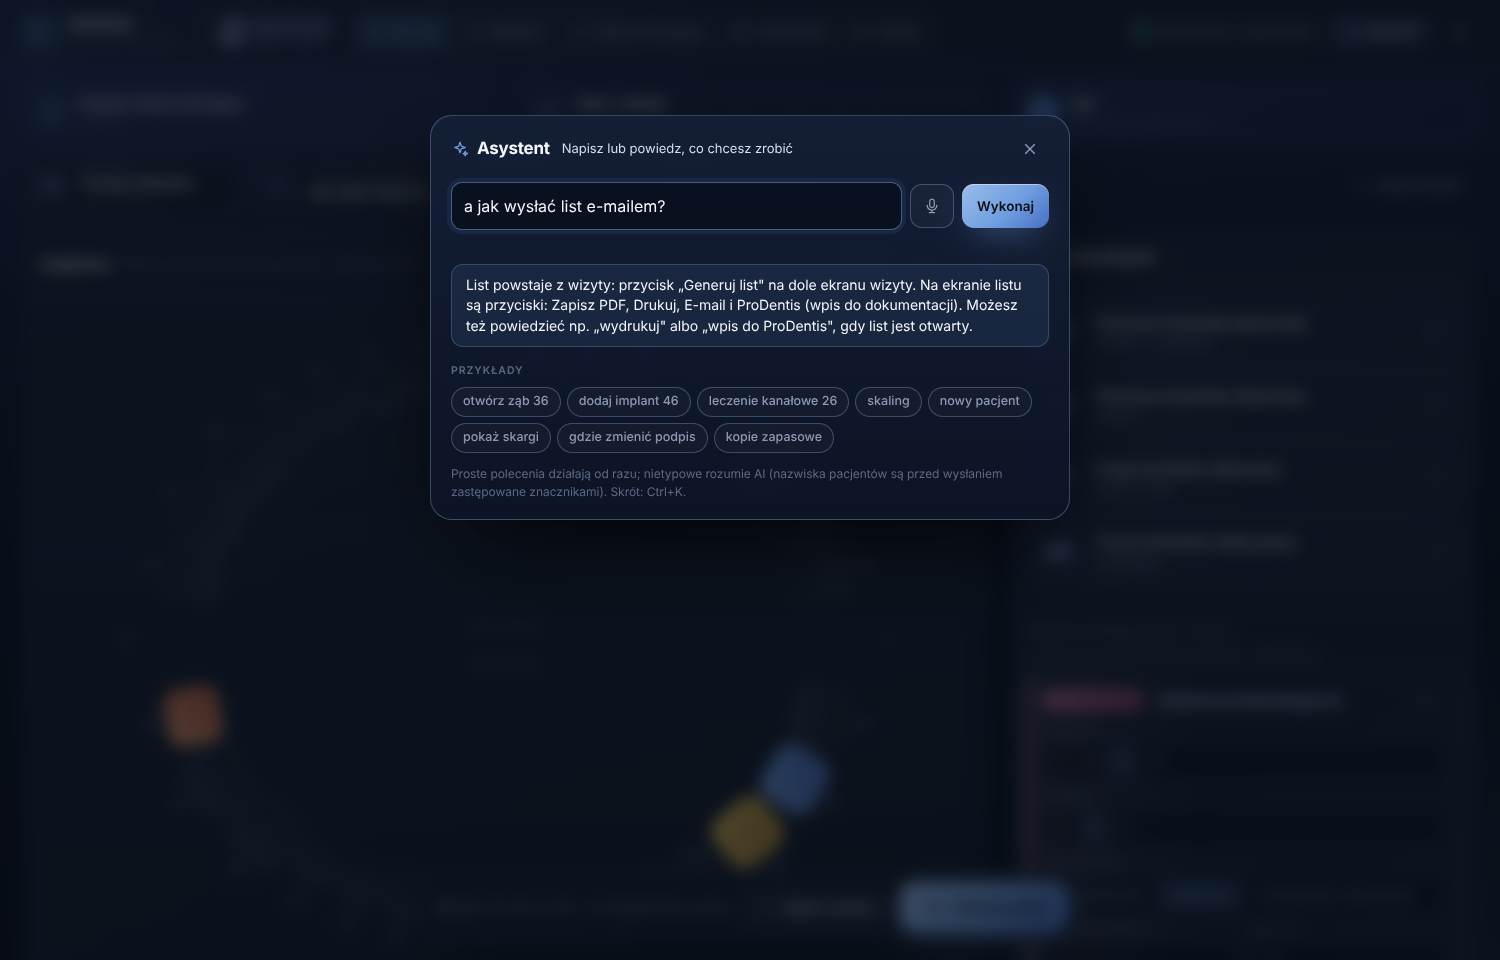
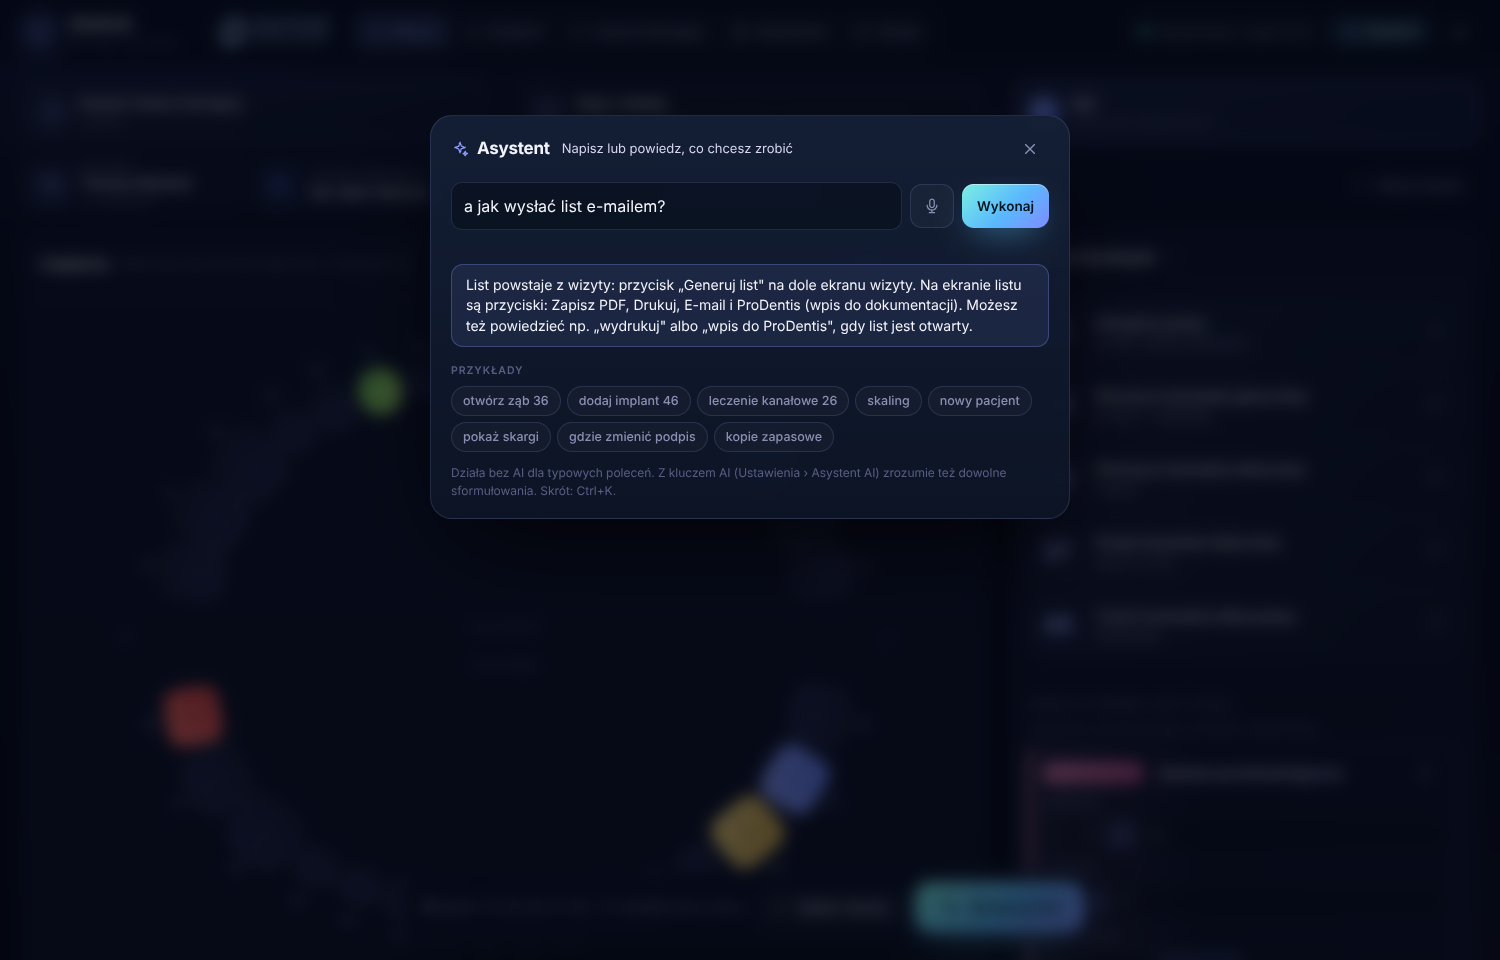
DentList 1.0.8: buccal elements face the viewer on upper teeth; screenshots
Claude-Session: https://claude.ai/code/session_01N2R7jD5mcfB683ZhhSfV7y

diff --git a/dentlist/public/js/tooth3d.js b/dentlist/public/js/tooth3d.js
@@ -177,11 +177,11 @@ export class Tooth3D {
   /** What other specialties did to the tooth: fillings, crowns and veneers, post, gingiva, sealant, pulpotomy. */
   extras(ti, W, D, H, L, ex, crown) {
     const add = (geo, mat, x, y, z, sx = 1, sy = 1, sz = 1, order = 4) => { const m = new THREE.Mesh(geo, mat); m.position.set(x, y, z); m.scale.set(sx, sy, sz); m.renderOrder = order; this.group.add(m); return m; };
-    const blob = new THREE.SphereGeometry(1, 40, 24);
+    const blob = new THREE.SphereGeometry(1, 40, 24), bz = ti.upper ? -1 : 1; // buccal side faces the viewer for upper and lower teeth
     const composite = new THREE.MeshPhysicalMaterial({ color: 0x9fb2ff, emissive: 0x3349e0, emissiveIntensity: 0.5, roughness: 0.18, clearcoat: 1 });
     const temp = new THREE.MeshStandardMaterial({ color: 0xf1e9d2, roughness: 0.7 });
     const surfAt = { O: [0, H * 0.97, 0, W * 0.27, 0.55, D * 0.25], I: [0, H * 0.97, 0, W * 0.3, 0.5, D * 0.18], M: [-W * 0.47, H * 0.62, 0, 0.42, H * 0.24, D * 0.26], D: [W * 0.47, H * 0.62, 0, 0.42, H * 0.24, D * 0.26],
-      V: [0, H * 0.55, D * 0.46, W * 0.26, H * 0.22, 0.6], B: [0, H * 0.55, D * 0.46, W * 0.26, H * 0.22, 0.6], L: [0, H * 0.55, -D * 0.46, W * 0.26, H * 0.22, 0.6], P: [0, H * 0.55, -D * 0.46, W * 0.26, H * 0.22, 0.6] };
+      V: [0, H * 0.55, bz * D * 0.46, W * 0.26, H * 0.22, 0.6], B: [0, H * 0.55, bz * D * 0.46, W * 0.26, H * 0.22, 0.6], L: [0, H * 0.55, -bz * D * 0.46, W * 0.26, H * 0.22, 0.6], P: [0, H * 0.55, -bz * D * 0.46, W * 0.26, H * 0.22, 0.6] };
     for (const f of ex.fill || []) { const a = surfAt[f]; if (a) add(blob, composite, a[0], a[1], a[2], a[3], a[4], a[5]); }
     if (ex.tempFill) add(blob, temp, 0, H * 0.97, 0, W * 0.25, 0.5, D * 0.23);
     if (ex.seal) add(blob, new THREE.MeshPhysicalMaterial({ color: 0xffffff, transparent: true, opacity: 0.75, roughness: 0.1, clearcoat: 1, emissive: 0xffb27a, emissiveIntensity: 0.12 }), 0, H * 0.99, 0, W * 0.3, 0.35, D * 0.28);
@@ -191,7 +191,7 @@ export class Tooth3D {
       const mat = k === 'steel' ? new THREE.MeshPhysicalMaterial({ color: 0xc9ced6, metalness: 1, roughness: 0.22, clearcoat: 0.4 })
         : k === 'temp' ? new THREE.MeshPhysicalMaterial({ color: 0xf2e6c6, roughness: 0.45, clearcoat: 0.3 })
         : new THREE.MeshPhysicalMaterial({ color: 0xfdfdf9, roughness: 0.16, clearcoat: 1, clearcoatRoughness: 0.05, sheen: 0.4, sheenColor: new THREE.Color(0xd9ccff) });
-      if (k === 'veneer') add(blob, mat, 0, H * 0.55, D * 0.42, W * 0.5, H * 0.47, 0.9, 5);
+      if (k === 'veneer') add(blob, mat, 0, H * 0.55, bz * D * 0.42, W * 0.5, H * 0.47, 0.9, 5);
       else if (k === 'inlay') add(blob, mat, 0, H * 0.95, 0, W * 0.36, 0.9, D * 0.34, 5);
       else { crown.material = mat; crown.scale.setScalar(1.03); }
       if (k !== 'inlay' && k !== 'veneer') add(new THREE.TorusGeometry(1, 0.06, 10, 64), new THREE.MeshStandardMaterial({ color: 0xbba3ff, emissive: 0x8a6af0, emissiveIntensity: 0.6 }), 0, 0.15, 0, W * 0.47, D * 0.47, 1, 6).rotation.x = Math.PI / 2;
@@ -202,15 +202,15 @@ export class Tooth3D {
       // orthodontics: bracket with a segment of arch wire on the buccal face (lingual: on the inside), band, button, attachment
       const steel = new THREE.MeshPhysicalMaterial({ color: 0xc9ced6, metalness: 1, roughness: 0.2, clearcoat: 0.5 });
       const ceramic = new THREE.MeshPhysicalMaterial({ color: 0xf3efe6, roughness: 0.25, clearcoat: 1 });
-      const k = ex.ortho, zf = k === 'ling' ? -1 : 1, y = H * 0.55, z = (D / 2) * 0.98 * zf;
+      const k = ex.ortho, zf = (k === 'ling' ? -1 : 1) * bz, y = H * 0.55, z = (D / 2) * 0.98 * zf;
       if (['metal', 'ceram', 'sl', 'ling', 'tube'].includes(k)) {
         const bw = k === 'tube' ? W * 0.42 : W * 0.32, mat = k === 'ceram' ? ceramic : steel;
         add(new THREE.BoxGeometry(bw, H * 0.24, 0.9), mat, 0, y, z + 0.35 * zf, 1, 1, 1, 6);
         if (k !== 'tube') for (const dy of [-1, 1]) add(new THREE.BoxGeometry(bw * 1.08, 0.28, 0.5), mat, 0, y + dy * H * 0.09, z + 0.85 * zf, 1, 1, 1, 6);
         add(new THREE.CylinderGeometry(0.14, 0.14, W * 1.9, 12), steel, 0, y, z + 0.75 * zf, 1, 1, 1, 7).rotation.z = Math.PI / 2;
-      } else if (k === 'button') add(new THREE.CylinderGeometry(0.7, 0.7, 0.6, 24), steel, 0, y, z + 0.3, 1, 1, 1, 6).rotation.x = Math.PI / 2;
+      } else if (k === 'button') add(new THREE.CylinderGeometry(0.7, 0.7, 0.6, 24), steel, 0, y, z + 0.3 * zf, 1, 1, 1, 6).rotation.x = Math.PI / 2;
       else if (k === 'band') add(new THREE.CylinderGeometry(1, 1, H * 0.42, 64, 1, true), new THREE.MeshPhysicalMaterial({ color: 0xc9ced6, metalness: 1, roughness: 0.25, side: THREE.DoubleSide }), 0, H * 0.42, 0, W * 0.52, 1, D * 0.52, 6);
-      else if (k === 'attach') add(new THREE.BoxGeometry(W * 0.22, H * 0.16, 0.7), new THREE.MeshPhysicalMaterial({ color: 0x9fb2ff, emissive: 0x3349e0, emissiveIntensity: 0.4, roughness: 0.2, clearcoat: 1 }), 0, y, z + 0.2, 1, 1, 1, 6);
+      else if (k === 'attach') add(new THREE.BoxGeometry(W * 0.22, H * 0.16, 0.7), new THREE.MeshPhysicalMaterial({ color: 0x9fb2ff, emissive: 0x3349e0, emissiveIntensity: 0.4, roughness: 0.2, clearcoat: 1 }), 0, y, z + 0.2 * zf, 1, 1, 1, 6);
     }
     for (const sd of ex.ipr || []) { const m = add(new THREE.PlaneGeometry(D * 0.7, H * 0.55), new THREE.MeshStandardMaterial({ color: 0xffd27a, emissive: 0xffb340, emissiveIntensity: 0.6, transparent: true, opacity: 0.55, side: THREE.DoubleSide, depthWrite: false }), (sd === 'M' ? -1 : 1) * W * 0.51, H * 0.6, 0, 1, 1, 1, 8); m.rotation.y = Math.PI / 2; }
     if (ex.gum) {
